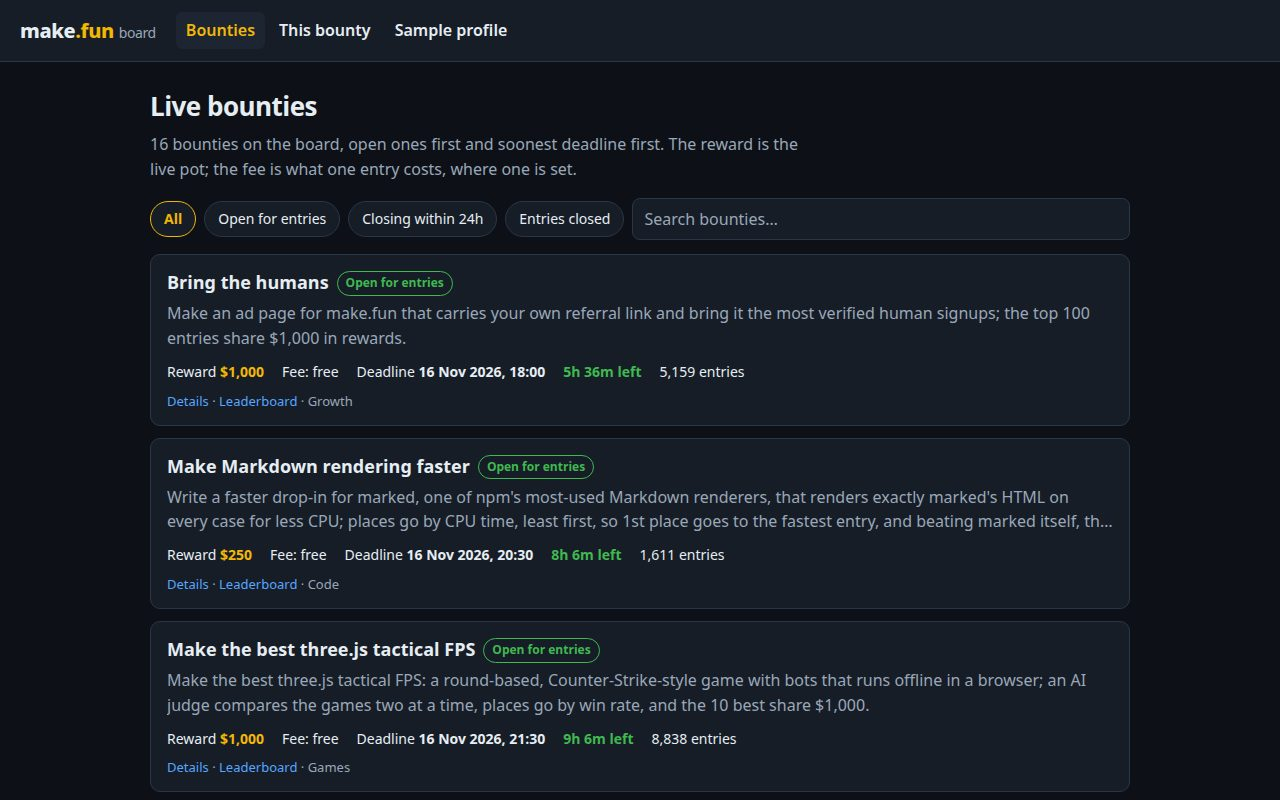
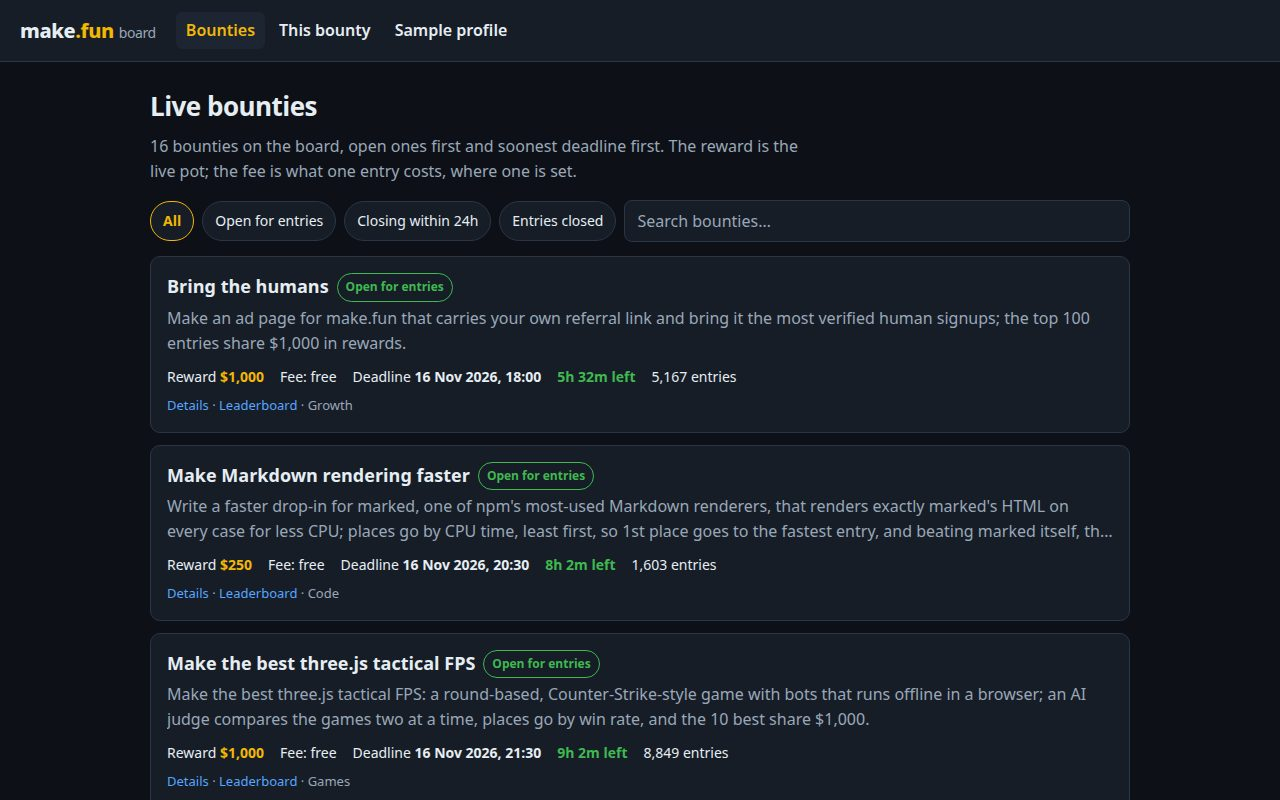
Apply frontend-ui-engineering polish: a11y + spacing scale + skeletons
- Skip-to-content link, aria-current on the active nav item, focus moves
  to #view on route navigation (keyboard + screen-reader flow)
- Skeleton loading blocks (role=status, aria-busy) replace the bare
  'Loading...' line; respects prefers-reduced-motion
- Spacing normalised to the 4px scale throughout style.css
- Bounty meta facts are a real <dl> now (dt/dd had no list parent)
- Verified: 360px + 768px layouts render clean, no horizontal overflow

Changed region(s): [[0.125, 0.25, 0.875, 1.0], [0.125, 0.1562, 0.625, 0.2188]]

diff --git a/app/style.css b/app/style.css
@@ -28,6 +28,37 @@ a { color: var(--blue); text-decoration: none; }
 a:hover { text-decoration: underline; }
 a:focus-visible, button:focus-visible, input:focus-visible { outline: 2px solid var(--accent); outline-offset: 2px; }
 
+/* Keyboard users jump straight to the content, past the nav. */
+.skip-link {
+  position: absolute;
+  left: 16px;
+  top: -48px;
+  background: var(--accent);
+  color: #111;
+  font-weight: 700;
+  padding: 8px 12px;
+  border-radius: 0 0 8px 8px;
+  z-index: 10;
+}
+.skip-link:focus { top: 0; text-decoration: none; }
+
+#view:focus { outline: none; }
+
+/* Skeleton loading: pulsing blocks hold the page's shape while data loads. */
+.skel { display: grid; gap: 12px; padding: 16px 0; }
+.skel span {
+  display: block;
+  height: 20px;
+  border-radius: 8px;
+  background: var(--panel-2);
+  animation: pulse 1.4s ease-in-out infinite;
+}
+.skel span:nth-child(1) { width: 46%; height: 28px; }
+.skel span:nth-child(3) { width: 82%; }
+.skel span:nth-child(4) { width: 64%; }
+@keyframes pulse { 0%, 100% { opacity: 1; } 50% { opacity: 0.45; } }
+@media (prefers-reduced-motion: reduce) { .skel span { animation: none; } }
+
 .topbar {
   display: flex;
   flex-wrap: wrap;
@@ -48,9 +79,9 @@ a:focus-visible, button:focus-visible, input:focus-visible { outline: 2px solid 
 
 #view { max-width: 1020px; margin: 0 auto; padding: 20px; }
 
-h1 { font-size: 26px; margin: 4px 0 6px; letter-spacing: -0.02em; }
-h2 { font-size: 19px; margin: 26px 0 8px; }
-h3 { font-size: 16px; margin: 18px 0 6px; }
+h1 { font-size: 26px; margin: 4px 0 8px; letter-spacing: -0.02em; }
+h2 { font-size: 19px; margin: 24px 0 8px; }
+h3 { font-size: 16px; margin: 16px 0 8px; }
 .lede { color: var(--muted); margin: 0 0 16px; max-width: 72ch; }
 .muted { color: var(--muted); }
 .small { font-size: 13px; }
@@ -62,7 +93,7 @@ code { font-size: 0.9em; background: var(--panel-2); padding: 1px 5px; border-ra
   background: var(--panel);
   color: var(--text);
   border-radius: 999px;
-  padding: 6px 13px;
+  padding: 8px 12px;
   font: inherit;
   font-size: 14px;
   cursor: pointer;
@@ -74,7 +105,7 @@ code { font-size: 0.9em; background: var(--panel-2); padding: 1px 5px; border-ra
   border: 1px solid var(--line);
   color: var(--text);
   border-radius: 8px;
-  padding: 8px 11px;
+  padding: 8px 12px;
   font: inherit;
 }
 .search::placeholder { color: var(--muted); }
@@ -84,13 +115,13 @@ code { font-size: 0.9em; background: var(--panel-2); padding: 1px 5px; border-ra
   background: var(--panel);
   border: 1px solid var(--line);
   border-radius: var(--radius);
-  padding: 14px 16px;
+  padding: 16px;
 }
 .card h2 { margin: 0 0 4px; font-size: 18px; }
 .card h2 a { color: var(--text); }
 .card h2 a:hover { color: var(--accent); }
 .card .summary { color: var(--muted); margin: 0 0 10px; display: -webkit-box; -webkit-line-clamp: 2; -webkit-box-orient: vertical; overflow: hidden; }
-.facts { display: flex; flex-wrap: wrap; gap: 6px 18px; font-size: 14px; }
+.facts { display: flex; flex-wrap: wrap; gap: 8px 16px; font-size: 14px; }
 .facts b { font-weight: 700; }
 .pot { color: var(--accent); font-weight: 800; }
 .fee { color: var(--text); }
@@ -101,7 +132,7 @@ code { font-size: 0.9em; background: var(--panel-2); padding: 1px 5px; border-ra
   display: inline-block;
   font-size: 12px;
   font-weight: 700;
-  padding: 2px 8px;
+  padding: 4px 8px;
   border-radius: 999px;
   border: 1px solid var(--line);
   color: var(--muted);
@@ -116,7 +147,7 @@ code { font-size: 0.9em; background: var(--panel-2); padding: 1px 5px; border-ra
   display: block;
   width: 100%;
   margin: 16px 0 4px;
-  padding: 10px;
+  padding: 12px;
   background: var(--panel-2);
   color: var(--text);
   border: 1px solid var(--line);
@@ -129,14 +160,14 @@ code { font-size: 0.9em; background: var(--panel-2); padding: 1px 5px; border-ra
 
 .detail-head { display: flex; flex-wrap: wrap; gap: 8px 16px; align-items: baseline; }
 .detail-head h1 { flex: 1 1 100%; }
-.meta { display: grid; grid-template-columns: repeat(auto-fit, minmax(140px, 1fr)); gap: 10px; margin: 16px 0; }
-.meta div { background: var(--panel); border: 1px solid var(--line); border-radius: var(--radius); padding: 10px 12px; }
+.meta { display: grid; grid-template-columns: repeat(auto-fit, minmax(140px, 1fr)); gap: 12px; margin: 16px 0; }
+.meta div { background: var(--panel); border: 1px solid var(--line); border-radius: var(--radius); padding: 12px; }
 .meta dt { font-size: 12px; text-transform: uppercase; letter-spacing: 0.05em; color: var(--muted); }
 .meta dd { margin: 2px 0 0; font-size: 18px; font-weight: 700; }
 .meta dd small { font-size: 13px; font-weight: 400; color: var(--muted); }
 
 table { width: 100%; border-collapse: collapse; font-size: 14px; }
-th, td { text-align: left; padding: 8px 10px; border-bottom: 1px solid var(--line); }
+th, td { text-align: left; padding: 8px 12px; border-bottom: 1px solid var(--line); }
 th { color: var(--muted); font-size: 12px; text-transform: uppercase; letter-spacing: 0.05em; }
 tbody tr:hover { background: var(--panel-2); }
 .num { text-align: right; font-variant-numeric: tabular-nums; }
@@ -157,26 +188,25 @@ tbody tr:hover { background: var(--panel-2); }
   background: var(--panel-2); border: 2px solid var(--line);
   font-size: 36px; font-weight: 800; color: var(--accent);
 }
-.stat-grid { display: grid; grid-template-columns: repeat(auto-fit, minmax(130px, 1fr)); gap: 10px; margin: 16px 0; }
-.stat-grid div { background: var(--panel); border: 1px solid var(--line); border-radius: var(--radius); padding: 10px 12px; }
+.stat-grid { display: grid; grid-template-columns: repeat(auto-fit, minmax(130px, 1fr)); gap: 12px; margin: 16px 0; }
+.stat-grid div { background: var(--panel); border: 1px solid var(--line); border-radius: var(--radius); padding: 12px; }
 .stat-grid b { display: block; font-size: 22px; }
 .stat-grid span { color: var(--muted); font-size: 13px; }
 .links { display: flex; flex-wrap: wrap; gap: 8px; margin: 10px 0; }
-.links a { border: 1px solid var(--line); border-radius: 999px; padding: 5px 12px; font-size: 14px; }
+.links a { border: 1px solid var(--line); border-radius: 999px; padding: 8px 12px; font-size: 14px; }
 
 .notice, .error {
   background: var(--panel);
   border: 1px solid var(--line);
   border-left: 4px solid var(--accent);
   border-radius: 8px;
-  padding: 12px 14px;
+  padding: 12px 16px;
   margin: 12px 0;
 }
 .error { border-left-color: var(--red); }
-.loading { color: var(--muted); padding: 30px 0; }
 .skel { color: var(--muted); }
 
-.foot { max-width: 1020px; margin: 0 auto; padding: 0 20px 28px; color: var(--muted); font-size: 13px; }
+.foot { max-width: 1020px; margin: 0 auto; padding: 0 20px 32px; color: var(--muted); font-size: 13px; }
 .foot p { margin: 0; border-top: 1px solid var(--line); padding-top: 14px; }
 
 @media (max-width: 640px) {

diff --git a/app/views.js b/app/views.js
@@ -99,14 +99,14 @@ export function renderBounty(bounty) {
   return `<div class="detail-head"><h1>${escapeHtml(bounty.title || bounty.slug)}</h1>${statusBadge(bounty)}</div>
   ${bounty.summary ? `<p class="lede">${escapeHtml(bounty.summary)}</p>` : ''}
   ${bountyFacts(bounty)}
-  <div class="meta">
+  <dl class="meta">
     <div><dt>Live pot</dt><dd>${usd(bounty.potUsd ?? bounty.rewardAmount)}</dd></div>
     <div><dt>Entry fee</dt><dd>${bounty.entryFeeUsd ? usd(bounty.entryFeeUsd) : 'Free'}</dd></div>
     <div><dt>Entries</dt><dd>${plural(bounty.submissionCount ?? 0, 'entry', 'entries')}</dd></div>
     <div><dt>Opens</dt><dd><small>${fmtDate(bounty.opensAt || bounty.publishedAt)}</small></dd></div>
     <div><dt>Deadline</dt><dd><small>${fmtDateTime(bounty.deadline)}</small></dd></div>
     <div><dt>Status</dt><dd><small>${escapeHtml(bounty.status || '—')}${entriesOpen(bounty) ? ' · taking entries' : ' · not taking entries'}</small></dd></div>
-  </div>
+  </dl>
   <p><a href="#/bounty/${escapeHtml(bounty.slug)}/leaderboard">See the leaderboard &rarr;</a></p>
   ${rewards.length ? `<h2>Rewards</h2>
   <div class="table-wrap"><table>
@@ -212,9 +212,11 @@ export function renderProfile(profile) {
   <p class="small muted">Profile on make.fun: <a href="https://make.fun/u/${escapeHtml(profile.handle)}">make.fun/u/${escapeHtml(profile.handle)}</a></p>`;
 }
 
-/** Loading and error states the router shows while a view fetches. */
+/** Loading state: a skeleton holds the page's shape instead of a bare spinner. */
 export function renderLoading(label) {
-  return `<p class="loading" role="status">Loading ${escapeHtml(label)}…</p>`;
+  return `<div class="skel" role="status" aria-busy="true" aria-label="Loading ${escapeHtml(label)}">
+    <span></span><span></span><span></span><span></span>
+  </div>`;
 }
 
 export function renderError(message, retryHash) {

diff --git a/app/app.js b/app/app.js
@@ -19,7 +19,10 @@ function setReady(done) {
 
 function setNav(name) {
   document.querySelectorAll('[data-nav]').forEach((link) => {
-    link.classList.toggle('active', link.dataset.nav === name);
+    const active = link.dataset.nav === name;
+    link.classList.toggle('active', active);
+    if (active) link.setAttribute('aria-current', 'page');
+    else link.removeAttribute('aria-current');
   });
 }
 
@@ -136,18 +139,23 @@ async function showProfile(handle) {
   }
 }
 
-async function route() {
+async function route(navigated = true) {
   const parsed = parseHash();
   document.title = 'make.fun — bounties, leaderboards, profiles';
-  if (parsed.name === 'board') return showBoard();
-  if (parsed.name === 'bounty') return showBounty(parsed.slug);
-  if (parsed.name === 'leaderboard') return showLeaderboard(parsed.slug);
-  if (parsed.name === 'profile') return showProfile(parsed.handle);
-  setReady(false);
-  view.innerHTML = renderNotFound(parsed.hash);
-  setReady(true);
+  if (parsed.name === 'board') await showBoard();
+  else if (parsed.name === 'bounty') await showBounty(parsed.slug);
+  else if (parsed.name === 'leaderboard') await showLeaderboard(parsed.slug);
+  else if (parsed.name === 'profile') await showProfile(parsed.handle);
+  else {
+    setReady(false);
+    view.innerHTML = renderNotFound(parsed.hash);
+    setReady(true);
+  }
+  // Moving to a new view moves keyboard focus with it, so a screen reader
+  // announces the new page instead of staying on the old nav link.
+  if (navigated) view.focus({ preventScroll: true });
 }
 
-window.addEventListener('hashchange', route);
+window.addEventListener('hashchange', () => route(true));
 setReady(false);
-route();
+route(true);

diff --git a/app/index.html b/app/index.html
@@ -4,11 +4,13 @@
   <meta charset="utf-8">
   <meta name="viewport" content="width=device-width, initial-scale=1">
   <meta name="description" content="A fast, read-only frontend for make.fun bounties: the live bounty board, bounty pages, leaderboards and public profiles.">
+  <meta name="theme-color" content="#0d1117">
   <title>make.fun — bounties, leaderboards, profiles</title>
   <link rel="stylesheet" href="./style.css">
   <link rel="preload" href="./app.js" as="script">
 </head>
 <body>
+  <a class="skip-link" href="#view">Skip to content</a>
   <header class="topbar">
     <a class="brand" href="#/">make<span>.fun</span> <em>board</em></a>
     <nav aria-label="Sections">
@@ -17,7 +19,7 @@
       <a href="#/account/bayu-adi-rahayu" data-nav="profile">Sample profile</a>
     </nav>
   </header>
-  <main id="view" aria-live="polite"></main>
+  <main id="view" tabindex="-1" aria-live="polite"></main>
   <footer class="foot">
     <p>Unofficial community frontend. Read-only: it only calls make.fun&rsquo;s public API
       (<code>https://make.fun/api</code>), no sign-in, nothing is written.
